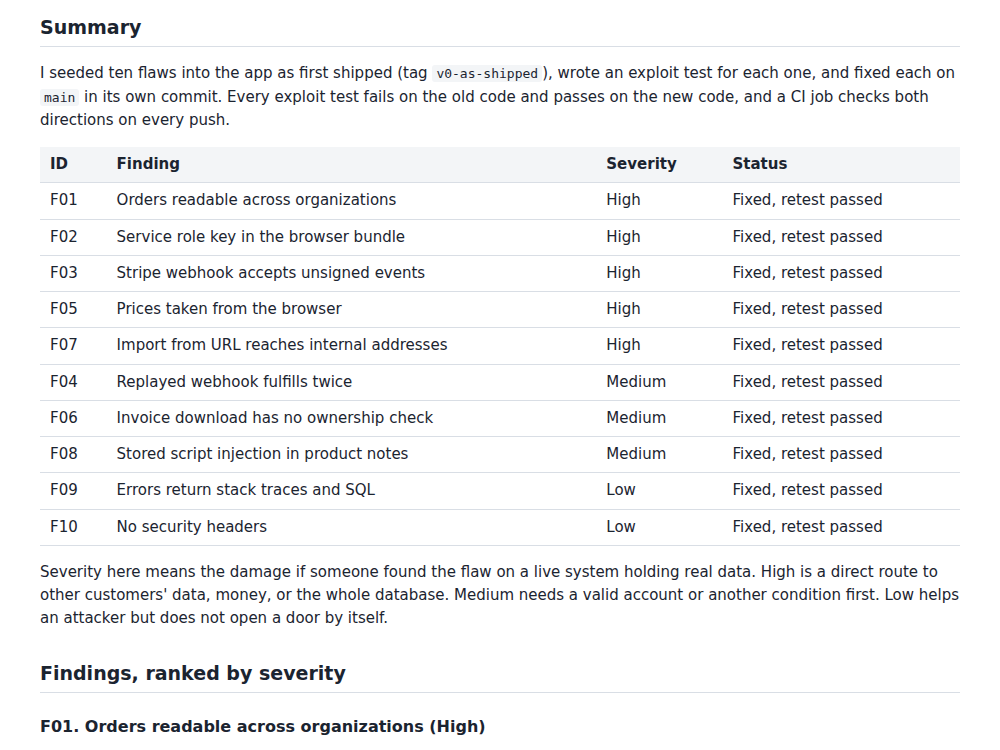
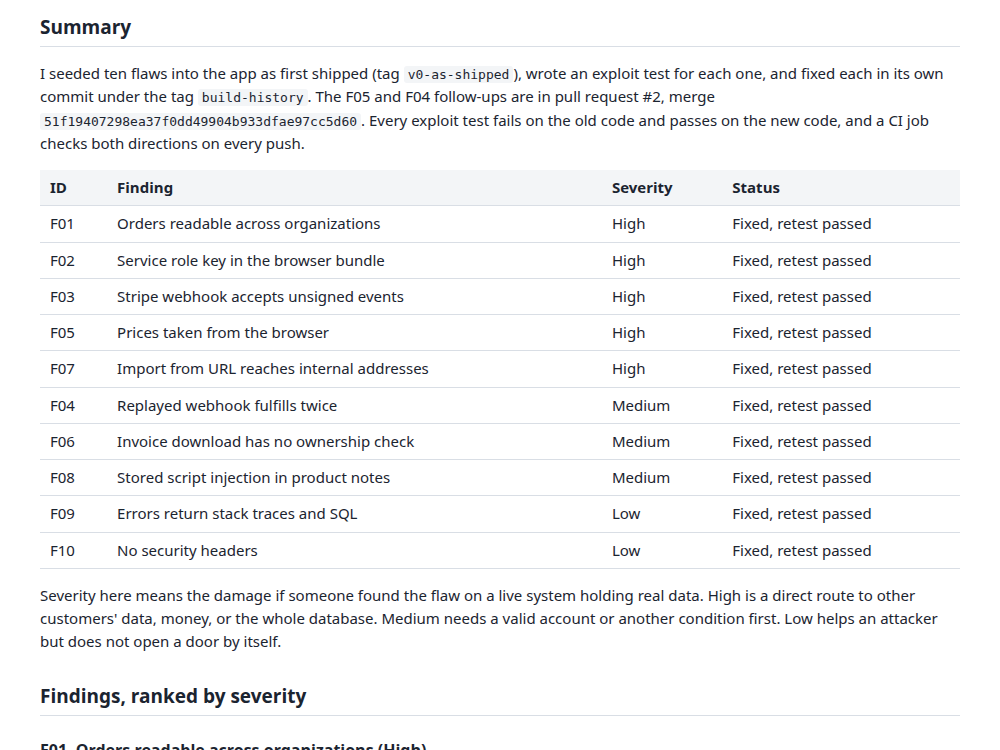
Sample 01: refresh findings from the merge-commit CI (#3)
* Cite the PR #2 merge for the F04 and F05 follow-ups

Refresh the findings page and one-page case study from the green CI run on the merge commit. The published counts already match that run. The report names pull request #2 for the later F04 and F05 fixes, and the two review wording edits are in the findings page.

* Card: say the sample shows fixing and retesting, not discovery

---------

Changed region(s): [[0.031, 0.092, 0.961, 1.0], [0.031, 0.0307, 0.155, 0.0613]]

diff --git a/docs/findings/REPORT.html b/docs/findings/REPORT.html
@@ -19,7 +19,7 @@
 <div id="summary"></div>
 
 <h2>Summary</h2>
-<p>I seeded ten flaws into the app as first shipped (tag <code>v0-as-shipped</code>), wrote an exploit test for each one, and fixed each on <code>main</code> in its own commit. Every exploit test fails on the old code and passes on the new code, and a CI job checks both directions on every push.</p>
+<p>I seeded ten flaws into the app as first shipped (tag <code>v0-as-shipped</code>), wrote an exploit test for each one, and fixed each in its own commit under the tag <code>build-history</code>. The F05 and F04 follow-ups are in pull request #2, merge <code>51f19407298ea37f0dd49904b933dfae97cc5d60</code>. Every exploit test fails on the old code and passes on the new code, and a CI job checks both directions on every push.</p>
 <table>
 <thead>
 <tr>
@@ -99,7 +99,7 @@
 <li><strong>Why High:</strong> any signed-in user could read every organization's orders straight from the database API.</li>
 <li><strong>Where (v0):</strong> <code>supabase/migrations/20261001000000_init.sql:83</code>, <code>alter table public.orders disable row level security</code>.</li>
 <li><strong>Reproduce:</strong> <code>tests/exploits/f01-rls-orders.test.ts</code>. It signs in as a Harbor user and asks for all orders.</li>
-<li><strong>Fix:</strong> commit <code>9a530f4</code>. Row level security is on, with a select policy scoped to the caller's organization. Access for the anonymous role is revoked. The fix also added an insert policy for pending orders. The F05 change later removed it, along with every member write on orders and order lines, so the select policy is the only thing members have. That migration is forward-only. A pgTAP test (<code>supabase/tests/f01_orders_rls.test.sql</code>) covers the select policy, the missing write access, and the anonymous role.</li>
+<li><strong>Fix:</strong> commit <code>9a530f4</code>. Row level security is on, with a select policy scoped to the caller's organization. Access for the anonymous role is revoked. The fix also added an insert policy for pending orders. The F05 follow-up in pull request #2, merge <code>51f19407298ea37f0dd49904b933dfae97cc5d60</code>, removed that insert policy, along with every member write on orders and order lines, so the select policy is the only thing members have. That migration is forward-only. A pgTAP test (<code>supabase/tests/f01_orders_rls.test.sql</code>) covers the select policy, the missing write access, and the anonymous role.</li>
 <li><strong>Retest:</strong> the exploit test fails on <code>v0-as-shipped</code> and passes on <code>main</code>.</li>
 <li><strong>In plain words:</strong> the app filtered orders by organization in its own code, but the database would hand everything to anyone who asked it directly. The database now enforces the rule itself.</li>
 </ul>
@@ -126,7 +126,7 @@
 <li><strong>Why High:</strong> a shopper could pay any amount for any item.</li>
 <li><strong>Where (v0):</strong> <code>app/api/checkout/route.ts:23</code>, the order total is built from <code>unitAmount</code> in the request body, and the same value goes to Stripe.</li>
 <li><strong>Reproduce:</strong> <code>tests/exploits/f05-client-price.test.ts</code> orders two units with a price of one cent and compares the stored total with the catalog price.</li>
-<li><strong>Fix:</strong> commit <code>7a147a0</code>, then a second change after a review of the merged result found the database side still open. The browser sends only a product id and a quantity. The server looks the price up and sends Stripe the stored Price ID. The request body is validated, and unknown fields, such as a price, are dropped. Orders and order lines are written only by the server, so a member can no longer insert one with a price of their own through the database API. The webhook compares the amount Stripe says was paid with the order total and does not fulfil on a mismatch.</li>
+<li><strong>Fix:</strong> commit <code>7a147a0</code> on <code>build-history</code>, then the follow-up in pull request #2, merge <code>51f19407298ea37f0dd49904b933dfae97cc5d60</code>, after a review of the merged result found the database side still open. The browser sends only a product id and a quantity. The server looks the price up and sends Stripe the stored Price ID. The request body is validated, and unknown fields, such as a price, are dropped. Orders and order lines are written only by the server, so a member can no longer insert one with a price of their own through the database API. The webhook compares the amount Stripe says was paid with the order total and does not fulfil on a mismatch.</li>
 <li><strong>Retest:</strong> the exploit test fails on <code>v0-as-shipped</code> and passes on <code>main</code>.</li>
 <li><strong>In plain words:</strong> the cart told the server what things cost. Now the server decides.</li>
 </ul>
@@ -144,7 +144,7 @@
 <li><strong>Why Medium:</strong> it needs a valid event to replay, and Stripe itself retries events, so duplicates happen in normal operation.</li>
 <li><strong>Where (v0):</strong> <code>app/api/stripe/webhook/route.ts:15</code>, shipment and invoice rows are inserted on every delivery.</li>
 <li><strong>Reproduce:</strong> <code>tests/exploits/f04-webhook-replay.test.ts</code> sends the same signed event twice and counts shipments and invoices.</li>
-<li><strong>Fix:</strong> commit <code>0dd3c92</code>. A <code>processed_events</code> table keyed by the Stripe event id, and a database function that records the event and fulfills the order in one transaction. A failure rolls both back, so Stripe can retry. A replay does nothing. A later change also makes the function skip an order that is no longer pending, so a second, different event for a paid order cannot fulfil it again.</li>
+<li><strong>Fix:</strong> commit <code>0dd3c92</code> on <code>build-history</code>. A <code>processed_events</code> table keyed by the Stripe event id, and a database function that records the event and fulfills the order in one transaction. A failure rolls both back, so Stripe can retry. A replay does nothing. The follow-up in pull request #2, merge <code>51f19407298ea37f0dd49904b933dfae97cc5d60</code>, also makes the function skip an order that is no longer pending, so a second, different event for a paid order cannot fulfil it again.</li>
 <li><strong>Retest:</strong> the exploit test fails on <code>v0-as-shipped</code> and passes on <code>main</code>.</li>
 <li><strong>In plain words:</strong> if Stripe sent the same message twice, the customer got two shipments. Now the second copy is ignored.</li>
 </ul>
@@ -227,7 +227,7 @@
 <p><strong>Week 3. Browser and errors.</strong> Move to a nonce-based content security policy. Add the cross-origin headers. Add rate limiting to sign-in, checkout and import. Ship the correlation id to wherever your team reads logs.</p>
 <p><strong>Week 4. Keep it fixed.</strong> Run the exploit suite on every pull request. Add Semgrep rules for the patterns that bit you. Write down who reviews a change that touches auth, payments or the database, and what they check.</p>
 <h2>Found in a later review of the merged result</h2>
-<p>After the build merged, I ran a separate multi-method review of the whole tree. It found four things, now fixed or listed here:</p>
+<p>After the build merged, I ran a separate multi-method review of the whole tree. These are the main things it found, and all four are fixed. Smaller fixes it led to are described under F01 and F04 above.</p>
 <ul>
 <li>The database still allowed a member to write their own orders and order lines (see F05). Fixed.</li>
 <li>The webhook did not compare the amount paid with the order total (see F05). Fixed.</li>
@@ -236,5 +236,5 @@
 </ul>
 <p>Three smaller points remain open. When the amount Stripe reports differs from the order total, the webhook logs the event and answers 200, so nothing is fulfilled and Stripe stops retrying. A real deployment needs an alert on that log line, and a person to reconcile the order. The webhook also does not compare the currency or the session id with the stored order. A checkout that fails between creating the order and creating the Stripe session leaves a pending order behind, and the order and its lines are written in two steps instead of one transaction. Neither lets anyone pay less or read anyone else's data.</p>
 <h2>What this review did not cover</h2>
-<p>This sample shows that I can fix flaws and prove the fixes hold. It does not show that I can find an unknown flaw in someone else's app, which is the work of the first week of a real engagement. Load testing, mobile clients, the hosting platform's own configuration, third-party services beyond Stripe in test mode, and social engineering. The data is synthetic and the app has no real customers, so nothing here says anything about a live system. The ten flaws were seeded on purpose, so the count is a feature of the sample and not a measurement of how many flaws an app like this has.</p>
+<p>This sample shows that I can fix flaws and prove the fixes hold. It does not show that I can find an unknown flaw in someone else's app, which is the work of the first week of a real engagement. It also does not cover load testing, mobile clients, the hosting platform's own configuration, third-party services beyond Stripe in test mode, or social engineering. The data is synthetic and the app has no real customers, so nothing here says anything about a live system. The ten flaws were seeded on purpose, so the count is a feature of the sample and not a measurement of how many flaws an app like this has.</p>
 </body></html>

diff --git a/docs/findings/REPORT.md b/docs/findings/REPORT.md
@@ -6,7 +6,7 @@ Sample on synthetic data. Cedar Supply Portal is a made-up B2B ordering app, bui
 
 ## Summary
 
-I seeded ten flaws into the app as first shipped (tag `v0-as-shipped`), wrote an exploit test for each one, and fixed each on `main` in its own commit. Every exploit test fails on the old code and passes on the new code, and a CI job checks both directions on every push.
+I seeded ten flaws into the app as first shipped (tag `v0-as-shipped`), wrote an exploit test for each one, and fixed each in its own commit under the tag `build-history`. The F05 and F04 follow-ups are in pull request #2, merge `51f19407298ea37f0dd49904b933dfae97cc5d60`. Every exploit test fails on the old code and passes on the new code, and a CI job checks both directions on every push.
 
 | ID | Finding | Severity | Status |
 |---|---|---|---|
@@ -30,7 +30,7 @@ Severity here means the damage if someone found the flaw on a live system holdin
 - **Why High:** any signed-in user could read every organization's orders straight from the database API.
 - **Where (v0):** `supabase/migrations/20261001000000_init.sql:83`, `alter table public.orders disable row level security`.
 - **Reproduce:** `tests/exploits/f01-rls-orders.test.ts`. It signs in as a Harbor user and asks for all orders.
-- **Fix:** commit `9a530f4`. Row level security is on, with a select policy scoped to the caller's organization. Access for the anonymous role is revoked. The fix also added an insert policy for pending orders. The F05 change later removed it, along with every member write on orders and order lines, so the select policy is the only thing members have. That migration is forward-only. A pgTAP test (`supabase/tests/f01_orders_rls.test.sql`) covers the select policy, the missing write access, and the anonymous role.
+- **Fix:** commit `9a530f4`. Row level security is on, with a select policy scoped to the caller's organization. Access for the anonymous role is revoked. The fix also added an insert policy for pending orders. The F05 follow-up in pull request #2, merge `51f19407298ea37f0dd49904b933dfae97cc5d60`, removed that insert policy, along with every member write on orders and order lines, so the select policy is the only thing members have. That migration is forward-only. A pgTAP test (`supabase/tests/f01_orders_rls.test.sql`) covers the select policy, the missing write access, and the anonymous role.
 - **Retest:** the exploit test fails on `v0-as-shipped` and passes on `main`.
 - **In plain words:** the app filtered orders by organization in its own code, but the database would hand everything to anyone who asked it directly. The database now enforces the rule itself.
 
@@ -57,7 +57,7 @@ Severity here means the damage if someone found the flaw on a live system holdin
 - **Why High:** a shopper could pay any amount for any item.
 - **Where (v0):** `app/api/checkout/route.ts:23`, the order total is built from `unitAmount` in the request body, and the same value goes to Stripe.
 - **Reproduce:** `tests/exploits/f05-client-price.test.ts` orders two units with a price of one cent and compares the stored total with the catalog price.
-- **Fix:** commit `7a147a0`, then a second change after a review of the merged result found the database side still open. The browser sends only a product id and a quantity. The server looks the price up and sends Stripe the stored Price ID. The request body is validated, and unknown fields, such as a price, are dropped. Orders and order lines are written only by the server, so a member can no longer insert one with a price of their own through the database API. The webhook compares the amount Stripe says was paid with the order total and does not fulfil on a mismatch.
+- **Fix:** commit `7a147a0` on `build-history`, then the follow-up in pull request #2, merge `51f19407298ea37f0dd49904b933dfae97cc5d60`, after a review of the merged result found the database side still open. The browser sends only a product id and a quantity. The server looks the price up and sends Stripe the stored Price ID. The request body is validated, and unknown fields, such as a price, are dropped. Orders and order lines are written only by the server, so a member can no longer insert one with a price of their own through the database API. The webhook compares the amount Stripe says was paid with the order total and does not fulfil on a mismatch.
 - **Retest:** the exploit test fails on `v0-as-shipped` and passes on `main`.
 - **In plain words:** the cart told the server what things cost. Now the server decides.
 
@@ -75,7 +75,7 @@ Severity here means the damage if someone found the flaw on a live system holdin
 - **Why Medium:** it needs a valid event to replay, and Stripe itself retries events, so duplicates happen in normal operation.
 - **Where (v0):** `app/api/stripe/webhook/route.ts:15`, shipment and invoice rows are inserted on every delivery.
 - **Reproduce:** `tests/exploits/f04-webhook-replay.test.ts` sends the same signed event twice and counts shipments and invoices.
-- **Fix:** commit `0dd3c92`. A `processed_events` table keyed by the Stripe event id, and a database function that records the event and fulfills the order in one transaction. A failure rolls both back, so Stripe can retry. A replay does nothing. A later change also makes the function skip an order that is no longer pending, so a second, different event for a paid order cannot fulfil it again.
+- **Fix:** commit `0dd3c92` on `build-history`. A `processed_events` table keyed by the Stripe event id, and a database function that records the event and fulfills the order in one transaction. A failure rolls both back, so Stripe can retry. A replay does nothing. The follow-up in pull request #2, merge `51f19407298ea37f0dd49904b933dfae97cc5d60`, also makes the function skip an order that is no longer pending, so a second, different event for a paid order cannot fulfil it again.
 - **Retest:** the exploit test fails on `v0-as-shipped` and passes on `main`.
 - **In plain words:** if Stripe sent the same message twice, the customer got two shipments. Now the second copy is ignored.
 
@@ -147,7 +147,7 @@ These came out of the scans and the review. I left them open on purpose so the r
 
 ## Found in a later review of the merged result
 
-After the build merged, I ran a separate multi-method review of the whole tree. It found four things, now fixed or listed here:
+After the build merged, I ran a separate multi-method review of the whole tree. These are the main things it found, and all four are fixed. Smaller fixes it led to are described under F01 and F04 above.
 
 - The database still allowed a member to write their own orders and order lines (see F05). Fixed.
 - The webhook did not compare the amount paid with the order total (see F05). Fixed.
@@ -158,4 +158,4 @@ Three smaller points remain open. When the amount Stripe reports differs from th
 
 ## What this review did not cover
 
-This sample shows that I can fix flaws and prove the fixes hold. It does not show that I can find an unknown flaw in someone else's app, which is the work of the first week of a real engagement. Load testing, mobile clients, the hosting platform's own configuration, third-party services beyond Stripe in test mode, and social engineering. The data is synthetic and the app has no real customers, so nothing here says anything about a live system. The ten flaws were seeded on purpose, so the count is a feature of the sample and not a measurement of how many flaws an app like this has.
+This sample shows that I can fix flaws and prove the fixes hold. It does not show that I can find an unknown flaw in someone else's app, which is the work of the first week of a real engagement. It also does not cover load testing, mobile clients, the hosting platform's own configuration, third-party services beyond Stripe in test mode, or social engineering. The data is synthetic and the app has no real customers, so nothing here says anything about a live system. The ten flaws were seeded on purpose, so the count is a feature of the sample and not a measurement of how many flaws an app like this has.

diff --git a/README.md b/README.md
@@ -13,7 +13,7 @@ This is a work sample on synthetic data. It shows how I review an app that was p
 - **The app.** Cedar Supply Portal is a small multi-tenant ordering app: organization sign-up, product list, cart, Stripe Checkout, order history, invoice download, an admin page and an import-from-URL feature.
 - **The old code.** The tag `v0-as-shipped` is the app as a fast AI-assisted build might ship it, with ten seeded flaws (F01 to F10).
 - **The proof.** Each flaw has an exploit test in `tests/exploits/`. It fails on `v0-as-shipped` and passes on `main`. The CI jobs `exploits-v0` and `exploits-main` check both directions on every push, so a flaw that returns breaks the build.
-- **The fixes.** One commit per finding, so you can read each change on its own. They are on the build branch, `sample/01-ai-app-security-review`, and under the tag `build-history`, and the commit ids in the report refer to them. `main` holds the same code as one squashed commit.
+- **The fixes.** One commit per finding, so you can read each change on its own. They are under the tag `build-history`, and the commit ids in the report refer to them. The F05 and F04 follow-ups are in pull request #2, merge `51f19407298ea37f0dd49904b933dfae97cc5d60`. `main` holds the same code as the squashed commits of that history and that follow-up.
 - **The report.** [`docs/findings/REPORT.md`](docs/findings/REPORT.md) ranks the findings by severity. Each one has the file and line at v0, the test that reproduces it, the fix commit, the retest result and a note in plain words. It ends with a 30-day cleanup plan and a list of what I left unfixed.
 
 | ID | Finding | Severity |

diff --git a/docs/portfolio/summary.md b/docs/portfolio/summary.md
@@ -2,4 +2,4 @@ Sample: Security review of an AI-built Next.js, Supabase, Stripe app
 
 Reviewer and lead developer (illustrative sample on synthetic data)
 
-Sample on synthetic data. A B2B ordering app built fast with AI coding tools gets an independent security and code review before real customer and card data goes in. I seeded ten realistic flaws, among them open row-level security, a leaked service key, an unsigned Stripe webhook and client-set prices. Each has an exploit test that fails before the fix and passes after. Output: a written findings report ranked by severity, one fix per finding, and a CI check that fails if any flaw returns.
+Sample on synthetic data. A B2B ordering app built fast with AI coding tools gets an independent security and code review before real customer and card data goes in. I seeded ten realistic flaws, among them open row-level security, a leaked service key, an unsigned Stripe webhook and client-set prices. Because I planted them, this shows how I prove, fix and retest flaws, not how I find unknown ones. Each flaw has an exploit test that fails before the fix and passes after. Output: a written findings report ranked by severity, one fix per finding, and a CI check that fails if any flaw returns.

diff --git a/docs/portfolio/case-study.md b/docs/portfolio/case-study.md
@@ -10,7 +10,7 @@ Our B2B ordering app was built with Claude Code over several months. Before real
 
 - A small multi-tenant ordering app with sign-up, product list, cart, Stripe Checkout, order history, invoice download, an admin page and an import-from-URL feature.
 - The app as a fast AI-assisted build might ship it, tagged `v0-as-shipped`, with ten seeded flaws.
-- One exploit test per flaw. Each fails on the old code and passes on the fixed code, with one fix commit per finding.
+- One exploit test per flaw. Each fails on the old code and passes on the fixed code, with one fix commit per finding. The F05 and F04 follow-ups are in merge 51f1940.
 - A written findings report ranked by severity, with evidence for each item and a 30-day cleanup plan.
 - A CI pipeline that runs the tests and scanners and fails if any flaw comes back.
 
